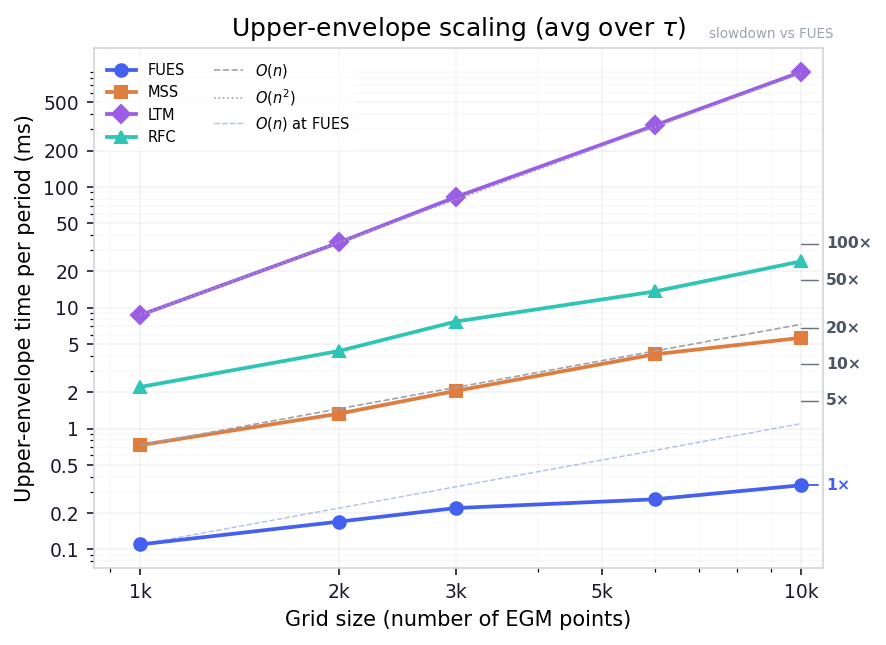
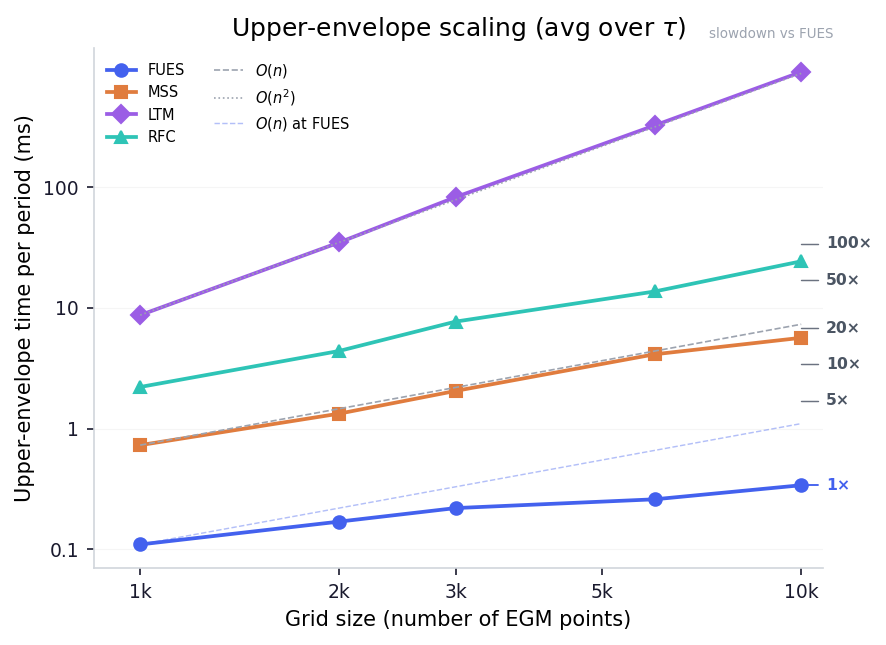
Despine plot, reduce to key y-ticks only (0.1, 1, 10, 100)
Made-with: Cursor

diff --git a/examples/retirement/notebooks/nb_pbs.py b/examples/retirement/notebooks/nb_pbs.py
@@ -147,15 +147,19 @@ def plot_pbs_scaling(path, ax=None):
     ax.xaxis.set_minor_formatter(ticker.NullFormatter())
     ax.set_xlim(ns[0] * 0.85, ns[-1] * 1.08)
 
-    # y-axis: explicit ms ticks
-    yticks = [0.1, 0.2, 0.5, 1, 2, 5, 10, 20, 50, 100, 200, 500]
+    # y-axis: sparse ms ticks
+    yticks = [0.1, 1, 10, 100]
     vis_yticks = [y for y in yticks if ax.get_ylim()[0] <= y <= ax.get_ylim()[1]]
     ax.set_yticks(vis_yticks)
     ax.set_yticklabels([f'{y:g}' for y in vis_yticks])
     ax.yaxis.set_minor_formatter(ticker.NullFormatter())
+    ax.xaxis.set_minor_locator(ticker.NullLocator())
+    ax.yaxis.set_minor_locator(ticker.NullLocator())
 
-    ax.grid(True, which='major', alpha=0.15)
-    ax.grid(True, which='minor', alpha=0.06)
+    ax.grid(True, which='major', axis='y', alpha=0.12, linewidth=0.5)
+
+    ax.spines['top'].set_visible(False)
+    ax.spines['right'].set_visible(False)
 
     ax.set_xlabel('Grid size (number of EGM points)')
     ax.set_ylabel('Upper-envelope time per period (ms)')
